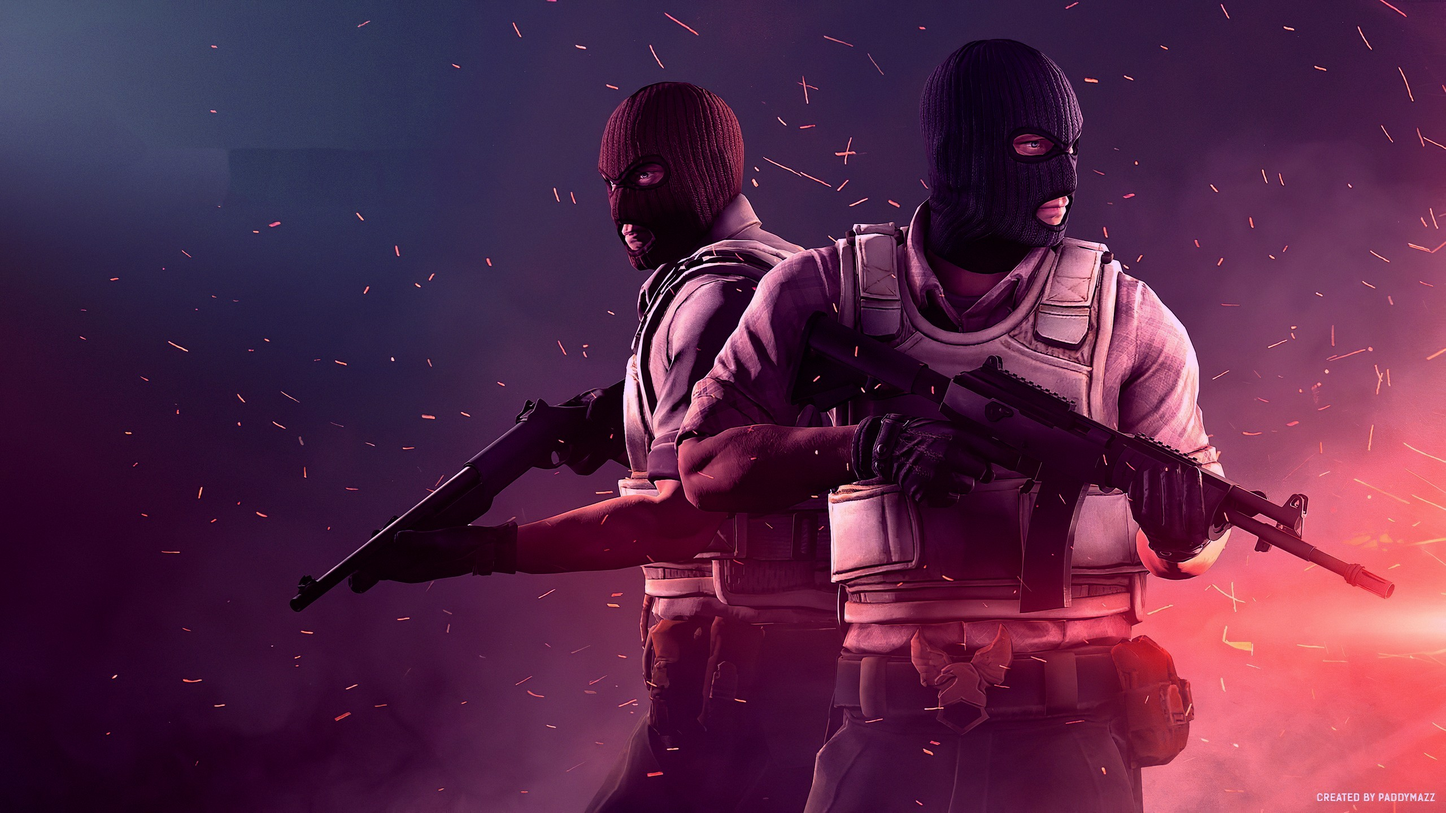
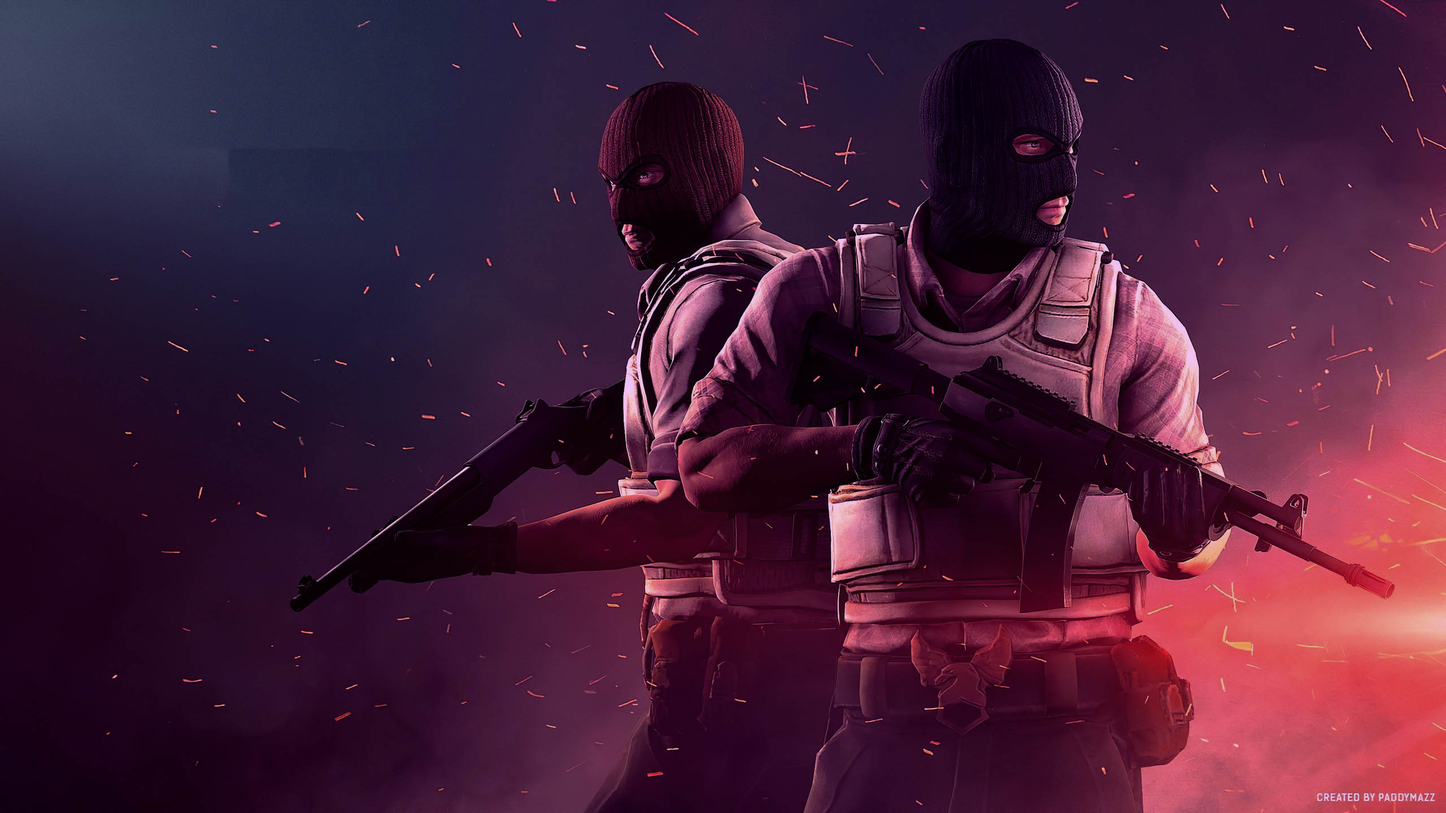
fixed bg pictures to dedicated brightness, added font(not done), and decreased font size

diff --git a/owlsgamingclub-web/src/index.css b/owlsgamingclub-web/src/index.css
@@ -1,6 +1,7 @@
 body {
   margin: 0;
-  font-family: -apple-system, BlinkMacSystemFont, 'Segoe UI', 'Roboto', 'Oxygen',
+  font-family: 
+  -apple-system, BlinkMacSystemFont, 'Segoe UI', 'Roboto', 'Oxygen',
     'Ubuntu', 'Cantarell', 'Fira Sans', 'Droid Sans', 'Helvetica Neue',
     sans-serif;
   -webkit-font-smoothing: antialiased;
@@ -10,4 +11,11 @@ body {
 code {
   font-family: source-code-pro, Menlo, Monaco, Consolas, 'Courier New',
     monospace;
+}
+
+@font-face {
+  font-family: 'Cirrus';
+  src: local('Cirrus-Medium'), url(./fonts/OPTICirrus-Medium.woff) format('woff');
+  /* other formats include: 'woff2', 'truetype, 'opentype',
+                            'embedded-opentype', and 'svg' */
 }

diff --git a/owlsgamingclub-web/src/CoD/CoD.css b/owlsgamingclub-web/src/CoD/CoD.css
@@ -9,7 +9,7 @@
   }
   
   .call-of-duty-wrapper{
-    background-image: url('../images/MWII\ wallpaper-updated.png');
+    background-image: url('../images/MWII\ wallpaper-main.jpg');
     background-size: cover; 
     background-repeat: no-repeat; 
     background-attachment: fixed; 
@@ -20,7 +20,7 @@
       opacity: 0;
     }
     to {
-      opacity: 1;
+      opacity: 0.5;
     }
   }
 
@@ -35,7 +35,7 @@
   
   .cod-text {
     color: white;
-    font-size: 32px;
+    font-size: 18px;
     padding: 20px 0; /* Add padding for smaller screens */
     text-align: center;
     padding-right: 250px;

diff --git a/owlsgamingclub-web/src/RL/RL.css b/owlsgamingclub-web/src/RL/RL.css
@@ -8,7 +8,7 @@
 }
 
 .rl-wrapper{
-  background-image: url('../images/RL-bg.png');
+  background-image: url('../images/RL-bg.jpg');
   background-size: cover; 
   background-repeat: no-repeat; 
   background-attachment: fixed; 
@@ -24,8 +24,6 @@
   }
 }
 
-
-
 .rl-image{
     width: 250px;
     height: 300px;
@@ -37,7 +35,7 @@
 
 .rl-text{
     color: white;
-    font-size: 25px;
+    font-size: 18px;
     padding: 20px 0; /* Add padding for smaller screens */
     text-align: center;
     padding-right: 250px;

diff --git a/owlsgamingclub-web/src/LoL/LoL.css b/owlsgamingclub-web/src/LoL/LoL.css
@@ -8,7 +8,7 @@
 }
 
 .LOL-wrapper{
-  background-image: url('../images/LOL-bg.png');
+  background-image: url('../images/LOL-bg.jpg');
     background-size: cover; 
     background-repeat: no-repeat; 
     background-attachment: fixed; 
@@ -37,7 +37,7 @@
 
 .LOL-text {
   color: white;
-  font-size: 25px;
+  font-size: 18px;
   padding: 20px 0; /* Add padding for smaller screens */
   text-align: center;
   padding-right: 250px;

diff --git a/owlsgamingclub-web/src/App.js b/owlsgamingclub-web/src/App.js
@@ -5,7 +5,6 @@ import Homepage from './Homepage/Homepage';
 import ColorTransition from './ColorTransition/ColorTransition';
 import About from './About/About';
 import './App.css';
-import './fonts/fonts.css'
 import CoD from './CoD/CoD';
 import CSGO from './CSGO/CSGO';
 import OW from './OW/Ow';

diff --git a/owlsgamingclub-web/src/Smash/Smash.css b/owlsgamingclub-web/src/Smash/Smash.css
@@ -24,10 +24,6 @@
   }
 }
 
-
-
-
-
 .smash-image{
     width: 600px;
     height: 200px;
@@ -38,7 +34,7 @@
 }
 .smash-text{
     color: white;
-    font-size: 25px;
+    font-size: 18px;
     padding: 20px 0; /* Add padding for smaller screens */
     text-align: center;
     padding-right: 250px;

diff --git a/owlsgamingclub-web/src/Valorant/Valorant.css b/owlsgamingclub-web/src/Valorant/Valorant.css
@@ -35,7 +35,7 @@
   
   .valorant-text {
     color: white;
-    font-size: 25px;
+    font-size: 18px;
     padding: 20px 0; /* Add padding for smaller screens */
     text-align: center;
     padding-right: 250px;

diff --git a/owlsgamingclub-web/src/CSGO/CSGO.css b/owlsgamingclub-web/src/CSGO/CSGO.css
@@ -38,7 +38,7 @@
 
 .csgo-text{
     color: white;
-    font-size: 25px;
+    font-size: 18px;
     padding: 20px 0; /* Add padding for smaller screens */
     text-align: center;
     padding-right: 250px;

diff --git a/owlsgamingclub-web/src/OW/OW.css b/owlsgamingclub-web/src/OW/OW.css
@@ -37,7 +37,7 @@
 
 .ow-text{
     color: white;
-    font-size: 25px;
+    font-size: 18px;
     padding: 20px 0; /* Add padding for smaller screens */
     text-align: center;
     padding-right: 250px;

diff --git a/owlsgamingclub-web/src/index.js b/owlsgamingclub-web/src/index.js
@@ -1,5 +1,6 @@
 import React from 'react';
 import ReactDOM from 'react-dom/client';
+import "./fonts/OPTICirrus-Medium.woff";
 import './index.css';
 import App from './App';
 

diff --git a/owlsgamingclub-web/src/Homepage/Homepage.css b/owlsgamingclub-web/src/Homepage/Homepage.css
@@ -7,7 +7,7 @@
     height: 100vh; /* Ensure the container takes up the full viewport height */
 }
 
-.fade-in{
+.fade-in{ 
     animation: fadeIn 1s ease-in;
 }
 

diff --git a/owlsgamingclub-web/src/App.css b/owlsgamingclub-web/src/App.css
@@ -1,5 +1,5 @@
 .app-container {
-  font-family: 'Times New Roman', Times, serif;
+  font-family: "Cirrus";
   display: flex;
 }
 
